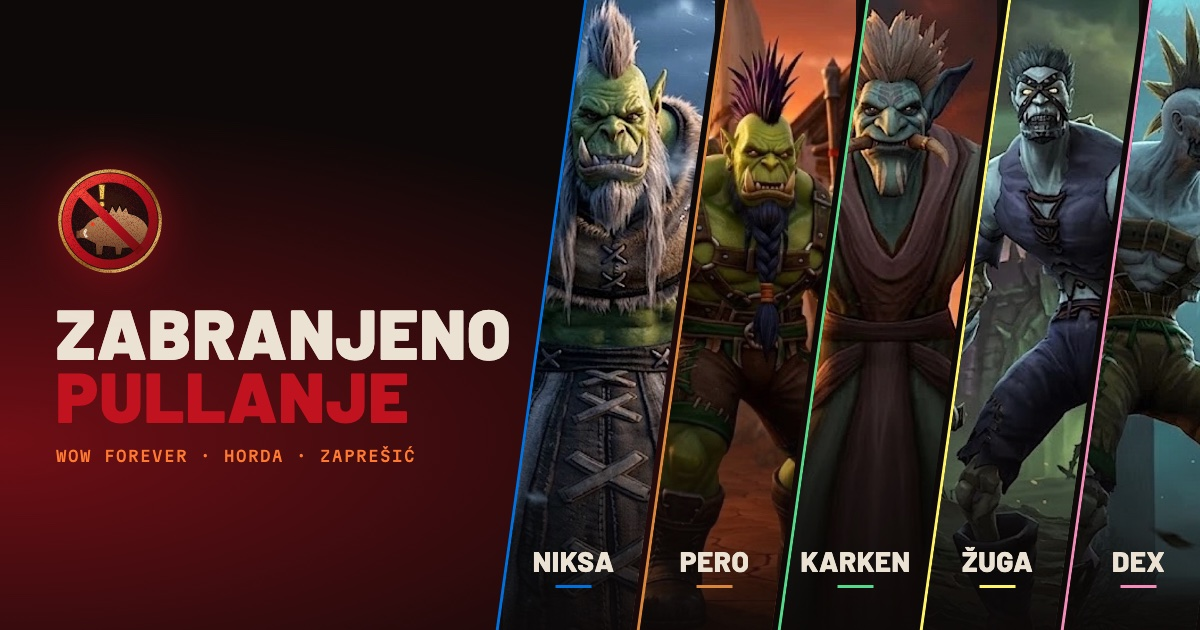
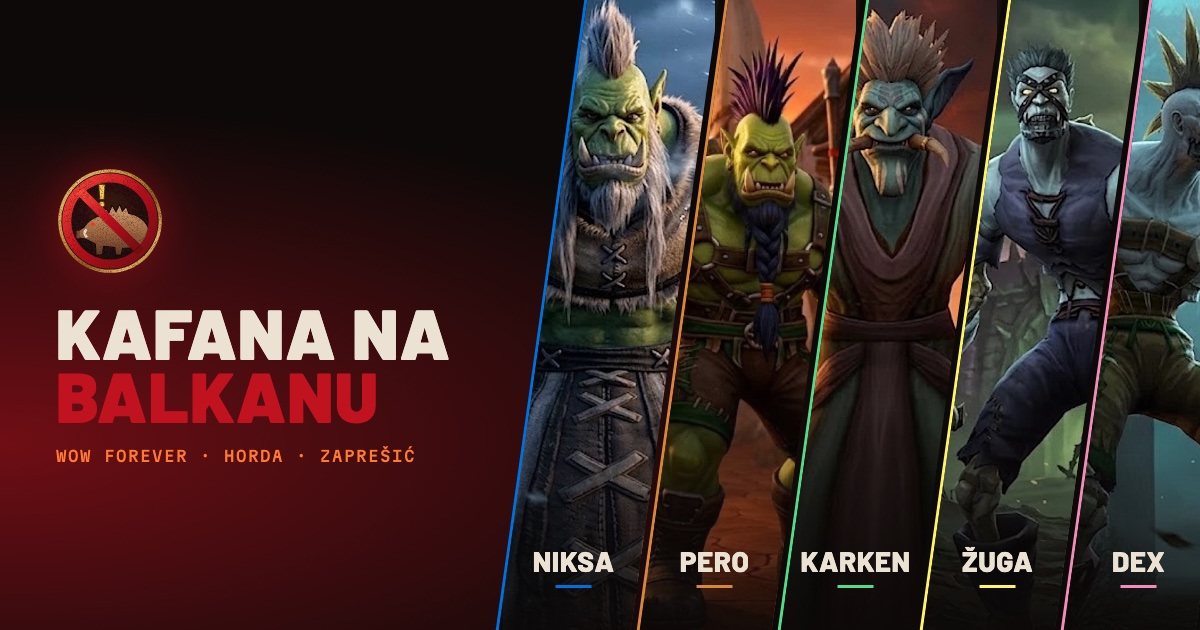
Guild preimenovan u Kafana na Balkanu: naslov, meta, cinematic, OG slika, achievement

Changed region(s): [[0.0308, 0.4825, 0.4317, 0.6937]]

diff --git a/index.html b/index.html
@@ -3,22 +3,22 @@
 <head>
 <meta charset="utf-8">
 <meta name="viewport" content="width=device-width, initial-scale=1, viewport-fit=cover">
-<title>Zabranjeno pullanje</title>
-<meta name="description" content="Guild Zabranjeno pullanje (Zaprešić Horde) za World of Warcraft: Forever. Odbrojavanje, roster, prva noć, savjeti za Forever i dungeoni.">
+<title>Kafana na Balkanu</title>
+<meta name="description" content="Guild Kafana na Balkanu (Zaprešić Horde) za World of Warcraft: Forever. Odbrojavanje, roster, prva noć, savjeti za Forever i dungeoni.">
 <meta name="theme-color" content="#0c0908">
 <link rel="icon" href="assets/favicon.svg" type="image/svg+xml">
 <link rel="icon" href="assets/favicon-32.png" sizes="32x32" type="image/png">
 <link rel="apple-touch-icon" href="assets/favicon-180.png">
 <meta property="og:type" content="website">
-<meta property="og:title" content="Zabranjeno pullanje">
-<meta property="og:description" content="Guild Zabranjeno pullanje: pet frendova iz Zaprešića kreće u World of Warcraft: Forever za Hordu, a ovdje odbrojava do launcha 4. 11.">
+<meta property="og:title" content="Kafana na Balkanu">
+<meta property="og:description" content="Guild Kafana na Balkanu: pet frendova iz Zaprešića kreće u World of Warcraft: Forever za Hordu, a ovdje odbrojava do launcha 4. 11.">
 <meta property="og:url" content="https://zabranjeno-pullanje.netlify.app/">
 <meta property="og:image" content="https://zabranjeno-pullanje.netlify.app/assets/og.jpg">
 <meta property="og:image:width" content="1200">
 <meta property="og:image:height" content="630">
-<meta property="og:image:alt" content="Pero, Niksa, Karken, Žuga i Dex, likovi guilda Zabranjeno pullanje">
+<meta property="og:image:alt" content="Pero, Niksa, Karken, Žuga i Dex, likovi guilda Kafana na Balkanu">
 <meta name="twitter:card" content="summary_large_image">
-<meta name="twitter:title" content="Zabranjeno pullanje">
+<meta name="twitter:title" content="Kafana na Balkanu">
 <meta name="twitter:image" content="https://zabranjeno-pullanje.netlify.app/assets/og.jpg">
 <link rel="preconnect" href="https://fonts.googleapis.com">
 <link rel="preconnect" href="https://fonts.gstatic.com" crossorigin>
@@ -2411,7 +2411,7 @@ span[data-tt], b[data-tt], th[data-tt] { text-decoration: underline dotted rgba(
   <div class="wrap mono">
     <span class="sig">
       <button class="crest-btn" id="crest" type="button" aria-label="Na vrh stranice"><img src="assets/logo-zp.svg" alt="" width="46" height="46"></button>
-      <span class="sig-ime">&lt;Zabranjeno pullanje&gt;</span>
+      <span class="sig-ime">&lt;Kafana na Balkanu&gt;</span>
     </span>
     <nav class="menu" id="menu" aria-label="Sekcije">
       <ul class="nav-l" id="navL">
@@ -2445,7 +2445,7 @@ span[data-tt], b[data-tt], th[data-tt] { text-decoration: underline dotted rgba(
     <div class="wrap hero-grid">
       <div class="hero-main">
         <p class="eyebrow mono">Guild · Zaprešić Horde · 5 likova · World of Warcraft: Forever</p>
-        <h1 id="naslov">Zabranjeno <span>pullanje</span></h1>
+        <h1 id="naslov">Kafana na <span>Balkanu</span></h1>
       </div>
       <div class="stage" id="stage">
         <picture class="still">

diff --git a/zapresic.html b/zapresic.html
@@ -3,8 +3,8 @@
 <head>
 <meta charset="utf-8">
 <meta name="viewport" content="width=device-width, initial-scale=1, viewport-fit=cover">
-<title>Zaprešić → Azeroth · Zabranjeno pullanje</title>
-<meta name="description" content="Cinematic guilda Zabranjeno pullanje: od noćnog Zaprešića do Azerotha.">
+<title>Zaprešić → Azeroth · Kafana na Balkanu</title>
+<meta name="description" content="Cinematic guilda Kafana na Balkanu: od noćnog Zaprešića do Azerotha.">
 <meta name="theme-color" content="#050404">
 <link rel="icon" href="assets/favicon.svg" type="image/svg+xml">
 <link rel="preconnect" href="https://fonts.googleapis.com">
@@ -148,8 +148,8 @@ button { font: inherit; color: inherit; }
   <div class="udarni" id="udarni"></div>
   <div class="kraj">
     <div class="kraj-in">
-      <div class="logo" id="logo"><img src="assets/logo-zp.svg" alt="Grb guilda Zabranjeno pullanje"></div>
-      <h2 class="naslov" id="naslov" aria-label="Zabranjeno pullanje"></h2>
+      <div class="logo" id="logo"><img src="assets/logo-zp.svg" alt="Grb guilda Kafana na Balkanu"></div>
+      <h2 class="naslov" id="naslov" aria-label="Kafana na Balkanu"></h2>
       <p class="pod" id="pod">World of Warcraft: Forever · <b>Horda</b><br>4. 11. 2026.</p>
       <div class="gumbi" id="gumbi">
         <button type="button" class="btn" id="ponovi">↻ Ponovi</button>
@@ -950,7 +950,7 @@ button { font: inherit; color: inherit; }
   });
 
   var naslov = $("naslov");
-  naslov.innerHTML = "Zabranjeno".split("").map(function (c) { return "<span>" + c + "</span>"; }).join("") + "<br>" + "pullanje".split("").map(function (c) { return "<span>" + c + "</span>"; }).join("");
+  naslov.innerHTML = "Kafana na".split("").map(function (c) { return "<span>" + (c === " " ? "&nbsp;" : c) + "</span>"; }).join("") + "<br>" + "Balkanu".split("").map(function (c) { return "<span>" + c + "</span>"; }).join("");
   var slova = naslov.querySelectorAll("span");
 
   /* ================= potres ================= */

diff --git a/data.js b/data.js
@@ -2,7 +2,7 @@
 // promijeni vrijednost, pa ponovno objavi stranicu (link ostaje isti).
 window.HORDE = {
   ekipa: "Zaprešić Horde",
-  guild: "Zabranjeno pullanje",
+  guild: "Kafana na Balkanu",
   azurirano: "2026-11-06",
 
   // Vremena u UTC. Studeni je CET (UTC+1).
@@ -53,8 +53,9 @@ window.HORDE = {
   // achievementi: novi (koje posjetitelj još nije vidio) iskaču kao tost dolje u sredini, jedan po jedan
   // { id (jedinstven, ne mijenja se), naziv, opis, datum (GGGG-MM-DD), igraci: tko ga je dobio }
   achievementi: [
-    { id: "web-online", naziv: "Web online", opis: "Zabranjeno pullanje ima svoju stranicu.", datum: "2026-10-29", igraci: ["Pero", "Niksa", "Karken", "Žuga", "Dex"] },
+    { id: "web-online", naziv: "Web online", opis: "Ekipa ima svoju stranicu.", datum: "2026-10-29", igraci: ["Pero", "Niksa", "Karken", "Žuga", "Dex"] },
     { id: "ime-guilda", naziv: "Guild ima ime", opis: "Od sad smo Zabranjeno pullanje. Tabard još čeka gold.", datum: "2026-10-29", igraci: ["Pero", "Niksa", "Karken", "Žuga", "Dex"] },
+    { id: "novo-ime-guilda", naziv: "Novo ime", opis: "Guild se sad zove Kafana na Balkanu. Niksa je GM, ekipa je na broju.", datum: "2026-11-06", igraci: ["Pero", "Niksa", "Karken", "Žuga", "Dex"] },
     { id: "imena-rezervirana", naziv: "Imena rezervirana", opis: "Niksa, Žuga i Dex imaju likove potvrđene u igri: Saman Saulic, Nikola Roguevic, Arsen Deadic.", datum: "2026-10-29", igraci: ["Niksa", "Žuga", "Dex"] }
   ],
 

diff --git a/skripte/osvjezi.py b/skripte/osvjezi.py
@@ -1,5 +1,5 @@
 #!/usr/bin/env python3
-"""Osvježava data/*.json za web Zabranjeno pullanje.
+"""Osvježava data/*.json za web Kafana na Balkanu.
 
 Pokreće ga GitHub Actions svaki sat (.github/workflows/podaci.yml), a može se pokrenuti i lokalno:
     python3 skripte/osvjezi.py
